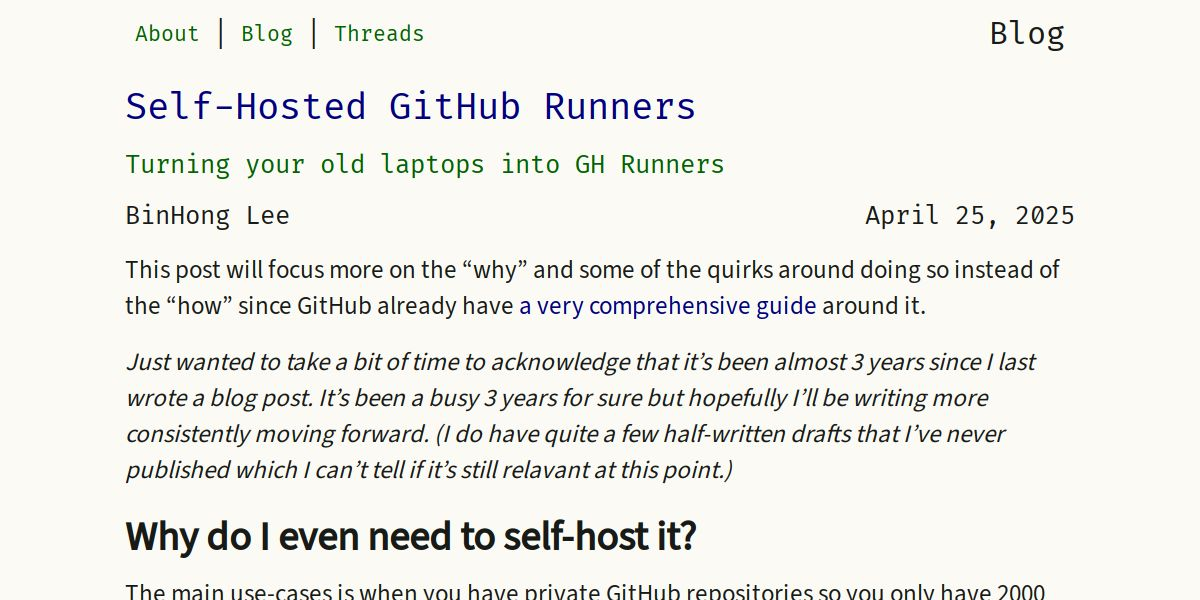
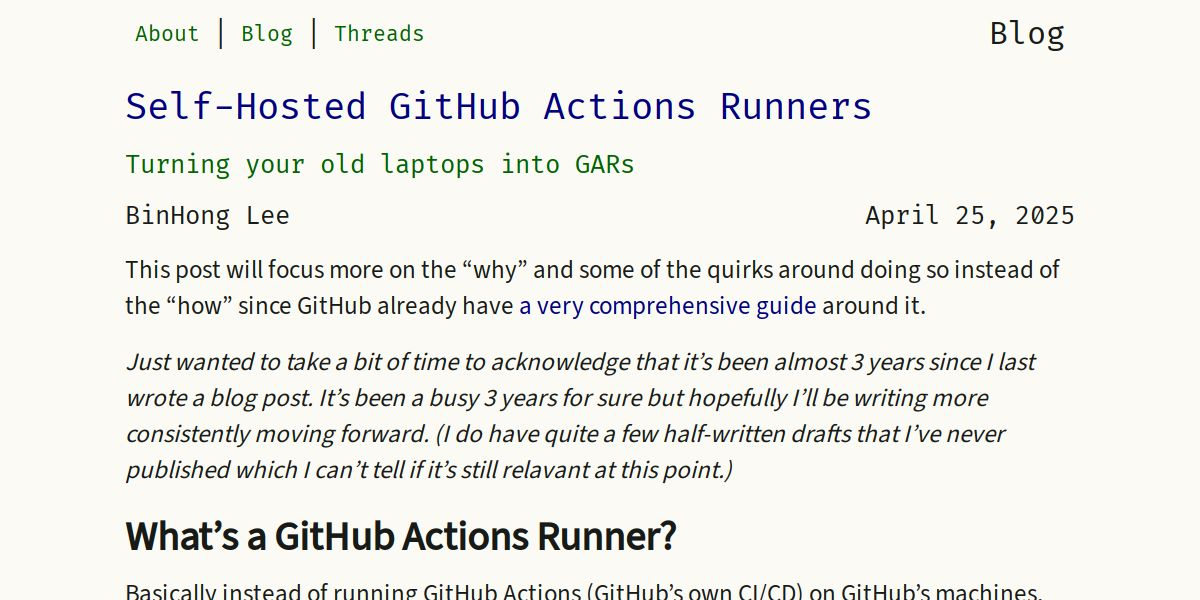
deploy: 8fe537048da5f9b53db867cc6a138d1861d4eed1

diff --git a/2025-04-25-self-hosted-github-runners/index.html b/2025-04-25-self-hosted-github-runners/index.html
@@ -4,15 +4,15 @@
     <meta charset="utf-8">
     <meta name="viewport" content="initial-scale=0.75">
     
-    <title>Self-Hosted GitHub Runners - BinHong Lee&#39;s Blog</title>
+    <title>Self-Hosted GitHub Actions Runners - BinHong Lee&#39;s Blog</title>
     
     <meta name="description" content="This post will focus more on the &ldquo;why&rdquo; and some of the quirks around doing so instead of the &ldquo;how&rdquo; since GitHub already have a very comprehensive guide around it.
 Just wanted to take a bit of time to acknowledge that it&rsquo;s been almost 3 years since I last wrote a blog post. It&rsquo;s been a busy 3 years for sure but hopefully I&rsquo;ll be writing more consistently moving forward. (I do have quite a few half-written drafts that I&rsquo;ve never published which I can&rsquo;t tell if it&rsquo;s still relavant at this point.)">
     <meta property="og:type" content="article">
-    <meta property="og:title" content="Self-Hosted GitHub Runners">
-    <meta property="og:description" content="Turning your old laptops into GH Runners">
-    <meta name="twitter:description" content="Turning your old laptops into GH Runners">
-    <meta name="twitter:title" content="Self-Hosted GitHub Runners"><meta property="article:published_time" 2025-04-25T00:00:00-08:00 />
+    <meta property="og:title" content="Self-Hosted GitHub Actions Runners">
+    <meta property="og:description" content="Turning your old laptops into GARs">
+    <meta name="twitter:description" content="Turning your old laptops into GARs">
+    <meta name="twitter:title" content="Self-Hosted GitHub Actions Runners"><meta property="article:published_time" 2025-04-25T00:00:00-08:00 />
     <meta property="article:modified_time" 2025-04-25T00:00:00-08:00 />
     <meta property="og:image" content="https://binhong.me/blog/preview/self_hosted_github_runners.jpg">
     <meta property="og:image:height" content="600">
@@ -66,14 +66,16 @@ Just wanted to take a bit of time to acknowledge that it&rsquo;s been almost 3 y
     <article class="content_body primary_block projects">
       <main class="article_body">
         <div class="active">
-          <p class="row name title">Self-Hosted GitHub Runners</h1>
-          <p class="row lang">Turning your old laptops into GH Runners</h2>
+          <p class="row name title">Self-Hosted GitHub Actions Runners</h1>
+          <p class="row lang">Turning your old laptops into GARs</h2>
           <div class="row author">
             <p>BinHong Lee</p>
             <p class="right">April 25, 2025</p>
           </div>
           <div class="post_content"><p>This post will focus more on the &ldquo;why&rdquo; and some of the quirks around doing so instead of the &ldquo;how&rdquo; since GitHub already have <a href="https://docs.github.com/en/actions/hosting-your-own-runners">a very comprehensive guide</a> around it.</p>
 <p><em>Just wanted to take a bit of time to acknowledge that it&rsquo;s been almost 3 years since I last wrote a blog post. It&rsquo;s been a busy 3 years for sure but hopefully I&rsquo;ll be writing more consistently moving forward. (I do have quite a few half-written drafts that I&rsquo;ve never published which I can&rsquo;t tell if it&rsquo;s still relavant at this point.)</em></p>
+<h2 id="whats-a-github-actions-runner">What&rsquo;s a GitHub Actions Runner?</h2>
+<p>Basically instead of running GitHub Actions (GitHub&rsquo;s own CI/CD) on GitHub&rsquo;s machines, you can run them on your own devices. Running GitHub Actions on your self-hosted GARs would not count against your monthly Action minutes (since you are not using their machines) and can be an effective cost saving alternative.</p>
 <h2 id="why-do-i-even-need-to-self-host-it">Why do I even need to self-host it?</h2>
 <p>The main use-cases is when you have private GitHub repositories so you only have 2000 included Actions minutes. While it might make sense for you to pay for GitHub Pro (which comes with more GitHub minutes), I didn&rsquo;t find myself needing all other features that comes with it. On top of that, I happen to have a few old computers lying around so I figured I&rsquo;d use them as ever-on GitHub runners. (So far, the electricity bill seems to be cheaper than paying for extra minutes or paying for any external equivalent CI service.)</p>
 <h2 id="why-not-gitea-runners-or-other-self-hosted-ci-services">Why not Gitea Runners (or other self-hosted CI services)?</h2>

diff --git a/categories/index.html b/categories/index.html
@@ -65,8 +65,8 @@
 
         <article class="block">
           <a class="article_link active" href="https://binhong.me/blog/2025-04-25-self-hosted-github-runners/">
-            <p class="name row">Self-Hosted GitHub Runners</p>
-            <p class="lang row">Turning your old laptops into GH Runners</p>
+            <p class="name row">Self-Hosted GitHub Actions Runners</p>
+            <p class="lang row">Turning your old laptops into GARs</p>
             <p class="desc">This post will focus more on the “why” and some of the quirks around doing so instead of the “how” since GitHub already have a very comprehensive guide around it.
 Just wanted to take a bit of time to acknowledge that it’s been almost 3 years since I last wrote a blog post. It’s been a busy 3 years for sure but hopefully I’ll be writing more consistently moving forward. (I do have quite a few half-written drafts that I’ve never published which I can’t tell if it’s still relavant at this point.)
 ...</p>

diff --git a/index.html b/index.html
@@ -65,8 +65,8 @@
 
         <article class="block">
           <a class="article_link active" href="https://binhong.me/blog/2025-04-25-self-hosted-github-runners/">
-            <p class="name row">Self-Hosted GitHub Runners</p>
-            <p class="lang row">Turning your old laptops into GH Runners</p>
+            <p class="name row">Self-Hosted GitHub Actions Runners</p>
+            <p class="lang row">Turning your old laptops into GARs</p>
             <p class="desc">This post will focus more on the “why” and some of the quirks around doing so instead of the “how” since GitHub already have a very comprehensive guide around it.
 Just wanted to take a bit of time to acknowledge that it’s been almost 3 years since I last wrote a blog post. It’s been a busy 3 years for sure but hopefully I’ll be writing more consistently moving forward. (I do have quite a few half-written drafts that I’ve never published which I can’t tell if it’s still relavant at this point.)
 ...</p>

diff --git a/tags/alexa-sdk/index.html b/tags/alexa-sdk/index.html
@@ -65,8 +65,8 @@
 
         <article class="block">
           <a class="article_link active" href="https://binhong.me/blog/2025-04-25-self-hosted-github-runners/">
-            <p class="name row">Self-Hosted GitHub Runners</p>
-            <p class="lang row">Turning your old laptops into GH Runners</p>
+            <p class="name row">Self-Hosted GitHub Actions Runners</p>
+            <p class="lang row">Turning your old laptops into GARs</p>
             <p class="desc">This post will focus more on the “why” and some of the quirks around doing so instead of the “how” since GitHub already have a very comprehensive guide around it.
 Just wanted to take a bit of time to acknowledge that it’s been almost 3 years since I last wrote a blog post. It’s been a busy 3 years for sure but hopefully I’ll be writing more consistently moving forward. (I do have quite a few half-written drafts that I’ve never published which I can’t tell if it’s still relavant at this point.)
 ...</p>

diff --git a/tags/alexa-skills/index.html b/tags/alexa-skills/index.html
@@ -65,8 +65,8 @@
 
         <article class="block">
           <a class="article_link active" href="https://binhong.me/blog/2025-04-25-self-hosted-github-runners/">
-            <p class="name row">Self-Hosted GitHub Runners</p>
-            <p class="lang row">Turning your old laptops into GH Runners</p>
+            <p class="name row">Self-Hosted GitHub Actions Runners</p>
+            <p class="lang row">Turning your old laptops into GARs</p>
             <p class="desc">This post will focus more on the “why” and some of the quirks around doing so instead of the “how” since GitHub already have a very comprehensive guide around it.
 Just wanted to take a bit of time to acknowledge that it’s been almost 3 years since I last wrote a blog post. It’s been a busy 3 years for sure but hopefully I’ll be writing more consistently moving forward. (I do have quite a few half-written drafts that I’ve never published which I can’t tell if it’s still relavant at this point.)
 ...</p>

diff --git a/tags/alexa/index.html b/tags/alexa/index.html
@@ -65,8 +65,8 @@
 
         <article class="block">
           <a class="article_link active" href="https://binhong.me/blog/2025-04-25-self-hosted-github-runners/">
-            <p class="name row">Self-Hosted GitHub Runners</p>
-            <p class="lang row">Turning your old laptops into GH Runners</p>
+            <p class="name row">Self-Hosted GitHub Actions Runners</p>
+            <p class="lang row">Turning your old laptops into GARs</p>
             <p class="desc">This post will focus more on the “why” and some of the quirks around doing so instead of the “how” since GitHub already have a very comprehensive guide around it.
 Just wanted to take a bit of time to acknowledge that it’s been almost 3 years since I last wrote a blog post. It’s been a busy 3 years for sure but hopefully I’ll be writing more consistently moving forward. (I do have quite a few half-written drafts that I’ve never published which I can’t tell if it’s still relavant at this point.)
 ...</p>

diff --git a/tags/api/index.html b/tags/api/index.html
@@ -65,8 +65,8 @@
 
         <article class="block">
           <a class="article_link active" href="https://binhong.me/blog/2025-04-25-self-hosted-github-runners/">
-            <p class="name row">Self-Hosted GitHub Runners</p>
-            <p class="lang row">Turning your old laptops into GH Runners</p>
+            <p class="name row">Self-Hosted GitHub Actions Runners</p>
+            <p class="lang row">Turning your old laptops into GARs</p>
             <p class="desc">This post will focus more on the “why” and some of the quirks around doing so instead of the “how” since GitHub already have a very comprehensive guide around it.
 Just wanted to take a bit of time to acknowledge that it’s been almost 3 years since I last wrote a blog post. It’s been a busy 3 years for sure but hopefully I’ll be writing more consistently moving forward. (I do have quite a few half-written drafts that I’ve never published which I can’t tell if it’s still relavant at this point.)
 ...</p>

diff --git a/tags/automated-deployment/index.html b/tags/automated-deployment/index.html
@@ -65,8 +65,8 @@
 
         <article class="block">
           <a class="article_link active" href="https://binhong.me/blog/2025-04-25-self-hosted-github-runners/">
-            <p class="name row">Self-Hosted GitHub Runners</p>
-            <p class="lang row">Turning your old laptops into GH Runners</p>
+            <p class="name row">Self-Hosted GitHub Actions Runners</p>
+            <p class="lang row">Turning your old laptops into GARs</p>
             <p class="desc">This post will focus more on the “why” and some of the quirks around doing so instead of the “how” since GitHub already have a very comprehensive guide around it.
 Just wanted to take a bit of time to acknowledge that it’s been almost 3 years since I last wrote a blog post. It’s been a busy 3 years for sure but hopefully I’ll be writing more consistently moving forward. (I do have quite a few half-written drafts that I’ve never published which I can’t tell if it’s still relavant at this point.)
 ...</p>

diff --git a/tags/automation/index.html b/tags/automation/index.html
@@ -65,8 +65,8 @@
 
         <article class="block">
           <a class="article_link active" href="https://binhong.me/blog/2025-04-25-self-hosted-github-runners/">
-            <p class="name row">Self-Hosted GitHub Runners</p>
-            <p class="lang row">Turning your old laptops into GH Runners</p>
+            <p class="name row">Self-Hosted GitHub Actions Runners</p>
+            <p class="lang row">Turning your old laptops into GARs</p>
             <p class="desc">This post will focus more on the “why” and some of the quirks around doing so instead of the “how” since GitHub already have a very comprehensive guide around it.
 Just wanted to take a bit of time to acknowledge that it’s been almost 3 years since I last wrote a blog post. It’s been a busy 3 years for sure but hopefully I’ll be writing more consistently moving forward. (I do have quite a few half-written drafts that I’ve never published which I can’t tell if it’s still relavant at this point.)
 ...</p>

diff --git a/tags/azure-pipeline/index.html b/tags/azure-pipeline/index.html
@@ -65,8 +65,8 @@
 
         <article class="block">
           <a class="article_link active" href="https://binhong.me/blog/2025-04-25-self-hosted-github-runners/">
-            <p class="name row">Self-Hosted GitHub Runners</p>
-            <p class="lang row">Turning your old laptops into GH Runners</p>
+            <p class="name row">Self-Hosted GitHub Actions Runners</p>
+            <p class="lang row">Turning your old laptops into GARs</p>
             <p class="desc">This post will focus more on the “why” and some of the quirks around doing so instead of the “how” since GitHub already have a very comprehensive guide around it.
 Just wanted to take a bit of time to acknowledge that it’s been almost 3 years since I last wrote a blog post. It’s been a busy 3 years for sure but hopefully I’ll be writing more consistently moving forward. (I do have quite a few half-written drafts that I’ve never published which I can’t tell if it’s still relavant at this point.)
 ...</p>

diff --git a/tags/build/index.html b/tags/build/index.html
@@ -65,8 +65,8 @@
 
         <article class="block">
           <a class="article_link active" href="https://binhong.me/blog/2025-04-25-self-hosted-github-runners/">
-            <p class="name row">Self-Hosted GitHub Runners</p>
-            <p class="lang row">Turning your old laptops into GH Runners</p>
+            <p class="name row">Self-Hosted GitHub Actions Runners</p>
+            <p class="lang row">Turning your old laptops into GARs</p>
             <p class="desc">This post will focus more on the “why” and some of the quirks around doing so instead of the “how” since GitHub already have a very comprehensive guide around it.
 Just wanted to take a bit of time to acknowledge that it’s been almost 3 years since I last wrote a blog post. It’s been a busy 3 years for sure but hopefully I’ll be writing more consistently moving forward. (I do have quite a few half-written drafts that I’ve never published which I can’t tell if it’s still relavant at this point.)
 ...</p>

diff --git a/tags/career/index.html b/tags/career/index.html
@@ -65,8 +65,8 @@
 
         <article class="block">
           <a class="article_link active" href="https://binhong.me/blog/2025-04-25-self-hosted-github-runners/">
-            <p class="name row">Self-Hosted GitHub Runners</p>
-            <p class="lang row">Turning your old laptops into GH Runners</p>
+            <p class="name row">Self-Hosted GitHub Actions Runners</p>
+            <p class="lang row">Turning your old laptops into GARs</p>
             <p class="desc">This post will focus more on the “why” and some of the quirks around doing so instead of the “how” since GitHub already have a very comprehensive guide around it.
 Just wanted to take a bit of time to acknowledge that it’s been almost 3 years since I last wrote a blog post. It’s been a busy 3 years for sure but hopefully I’ll be writing more consistently moving forward. (I do have quite a few half-written drafts that I’ve never published which I can’t tell if it’s still relavant at this point.)
 ...</p>
